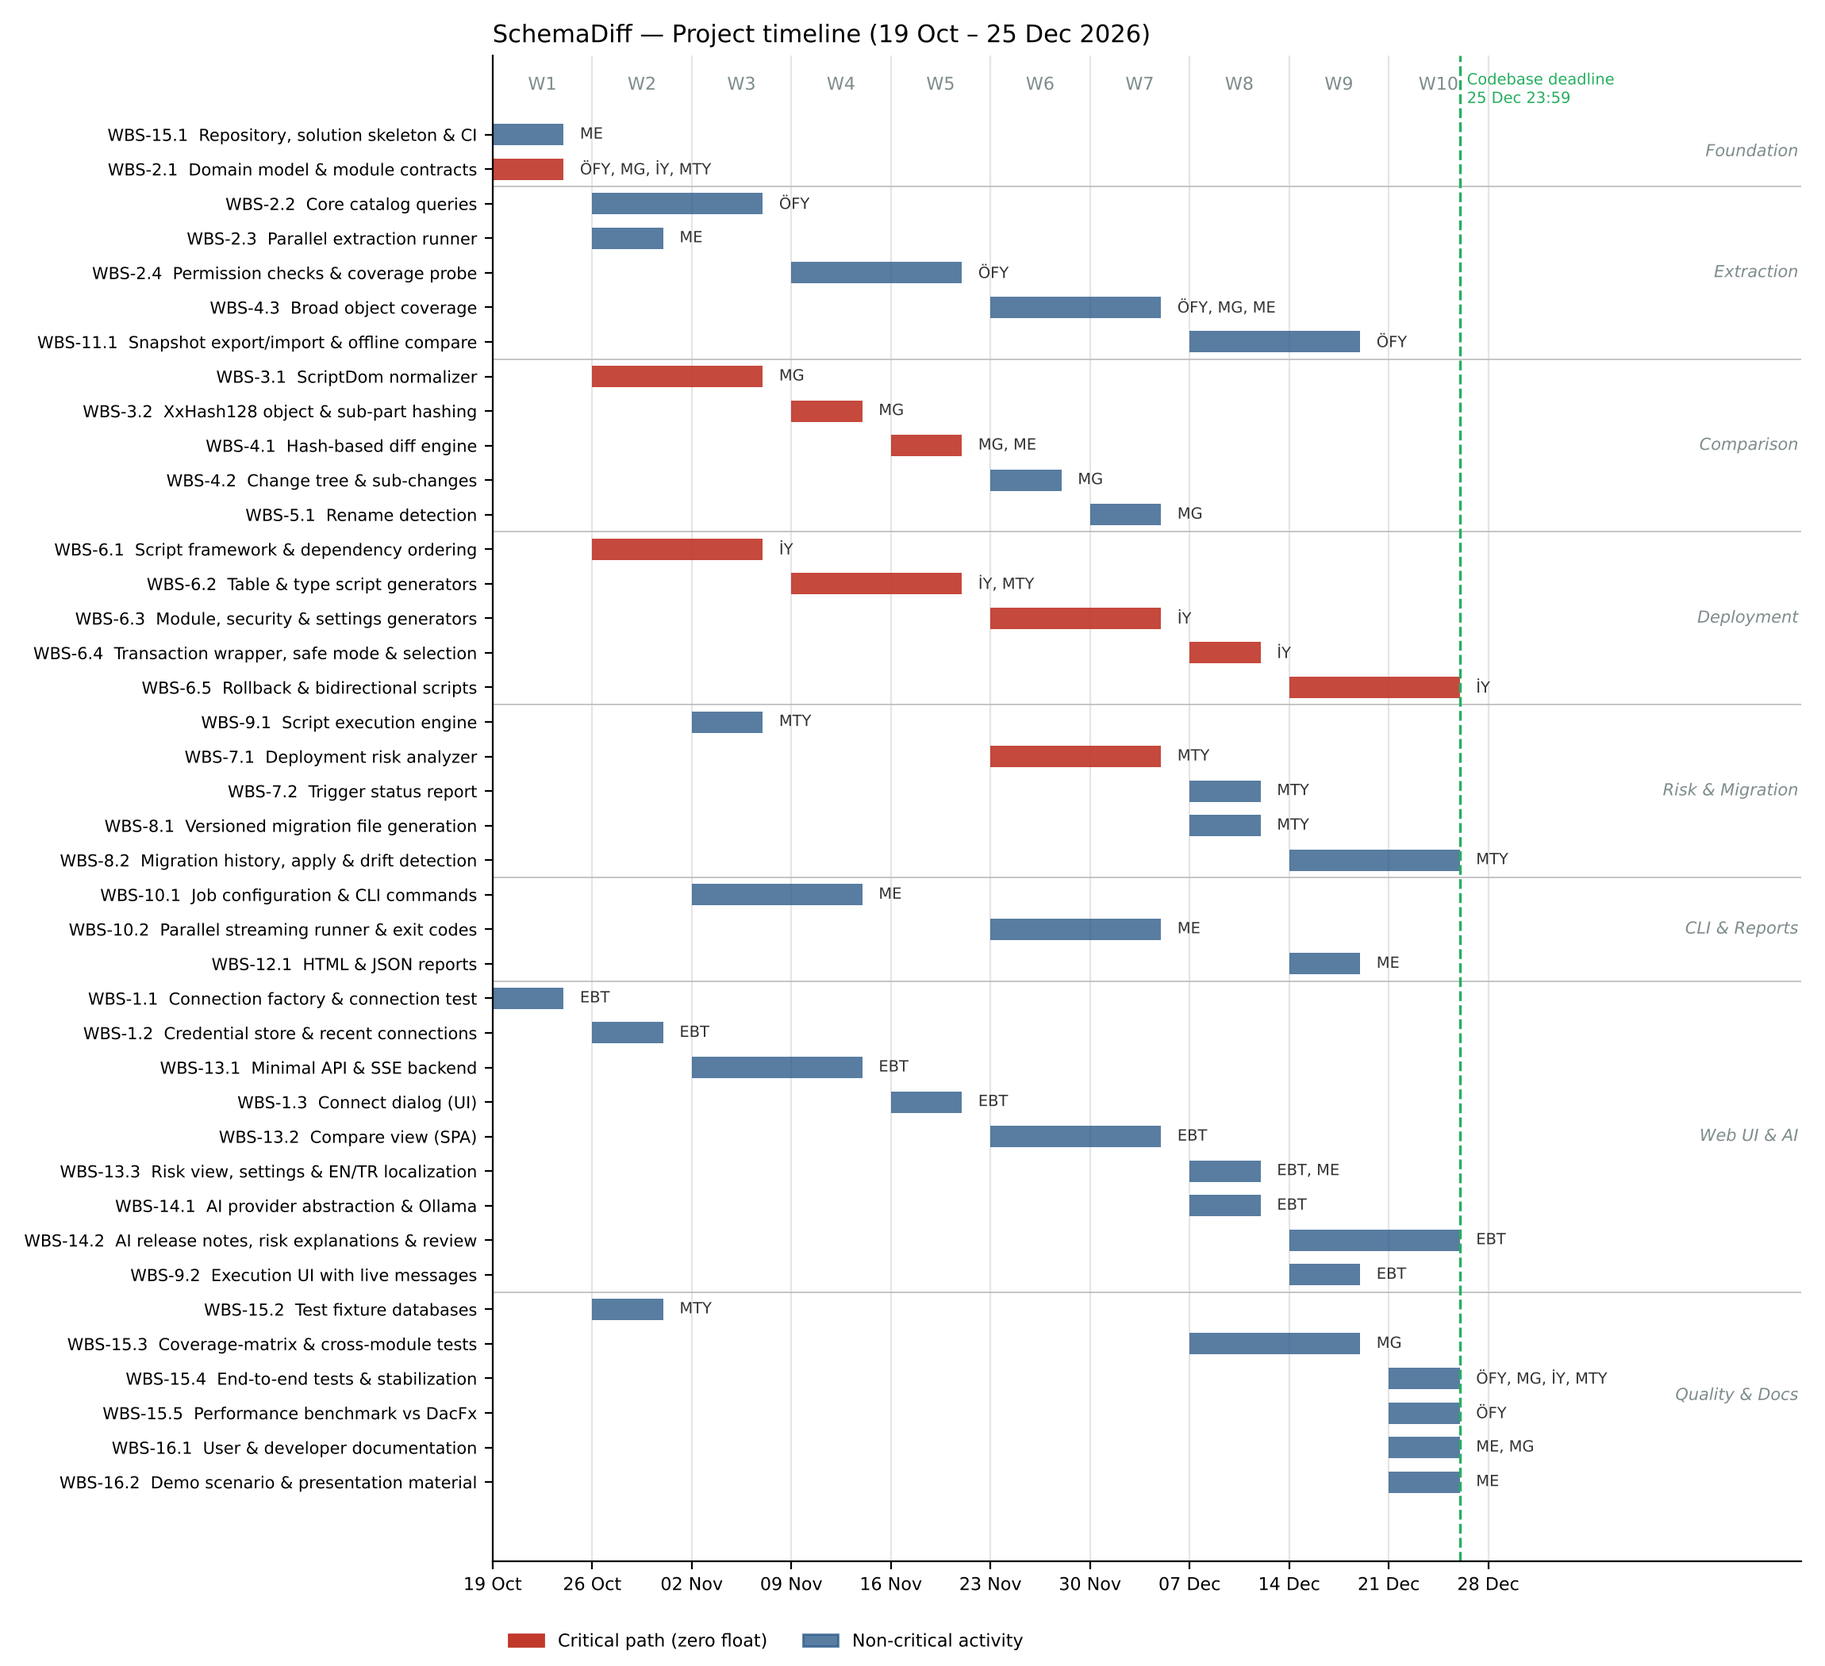
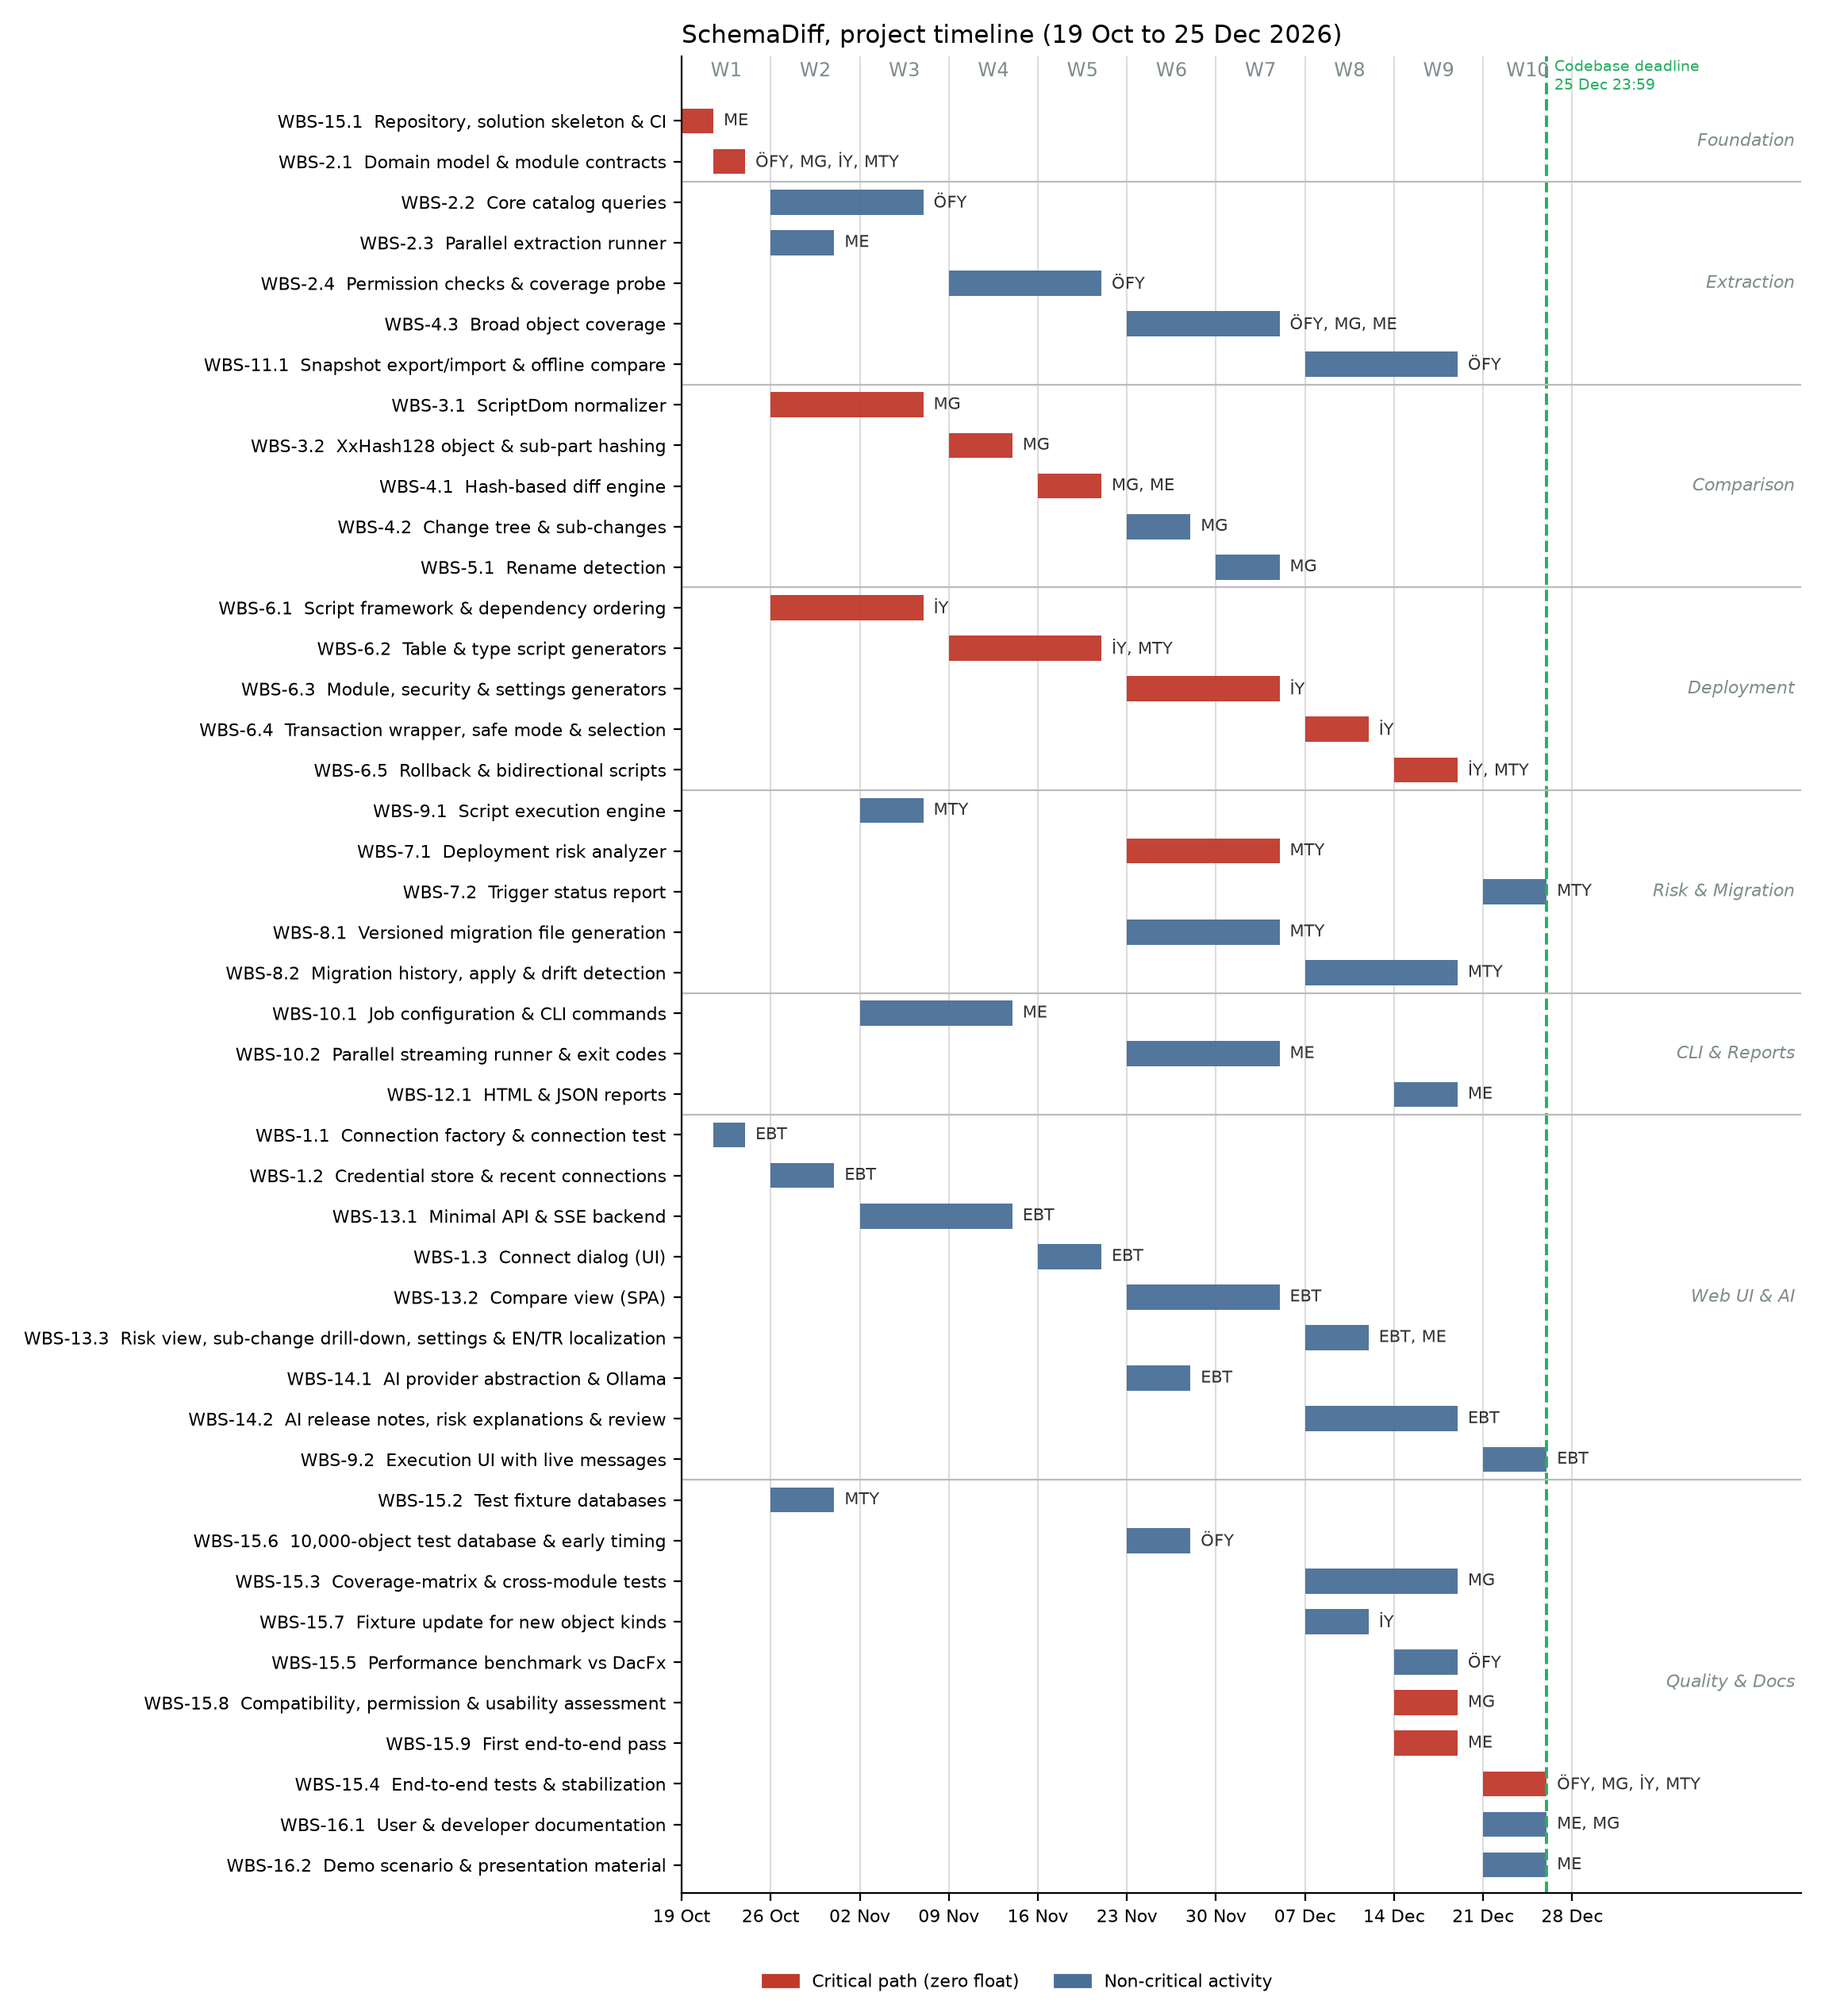
docs(plan): redraw PERT and Gantt charts from a checked model
charts.py holds the activities, runs the forward and backward pass, checks the weekly limits and draws both figures.

diff --git a/docs/diagrams/project-plan/charts.py b/docs/diagrams/project-plan/charts.py
@@ -1,0 +1,263 @@
+#!/usr/bin/env python3
+"""Project Plan schedule model: checks the plan and draws the PERT and Gantt charts.
+
+Run from the repository root:  python3 docs/diagrams/project-plan/charts.py
+Times are in weeks from Monday 19 Oct 2026, so W1 is the range 0 to 1.
+"""
+import os
+import subprocess
+import sys
+from datetime import date, timedelta
+
+import matplotlib
+matplotlib.use("Agg")
+import matplotlib.pyplot as plt
+
+NAMES = {"ME": "Mehmet Elhan", "ÖFY": "Ömer Faruk Yılmaz", "MG": "Mücahit Günay",
+         "İY": "İsmail Yeşilyurt", "MTY": "Mustafa Talha Yıldırım", "EBT": "Enes Birol Tatlı"}
+PROJECT_END = 10
+
+# id: (name, group, [(member, fte, start, duration), ...], predecessors)
+A = {
+ "15.1": ("Repository, solution skeleton & CI", "Foundation", [("ME", 1, 0, .5)], []),
+ "2.1": ("Domain model & module contracts", "Foundation",
+         [("ÖFY", .5, .5, .5), ("MG", .5, .5, .5), ("İY", .5, .5, .5), ("MTY", .5, .5, .5)], ["15.1"]),
+ "2.2": ("Core catalog queries", "Extraction", [("ÖFY", .5, 1, 2)], ["2.1", "1.1"]),
+ "2.3": ("Parallel extraction runner", "Extraction", [("ME", .5, 1, 1)], ["2.1", "1.1"]),
+ "2.4": ("Permission checks & coverage probe", "Extraction", [("ÖFY", .5, 3, 2)], ["2.2"]),
+ "4.3": ("Broad object coverage", "Extraction",
+         [("ÖFY", .5, 5, 2), ("MG", .25, 5, 2), ("ME", .25, 5, 2)], ["2.4", "4.1"]),
+ "11.1": ("Snapshot export/import & offline compare", "Extraction", [("ÖFY", .5, 7, 2)], ["10.1", "4.3"]),
+ "3.1": ("ScriptDom normalizer", "Comparison", [("MG", .5, 1, 2)], ["2.1"]),
+ "3.2": ("XxHash128 object & sub-part hashing", "Comparison", [("MG", .5, 3, 1)], ["3.1"]),
+ "4.1": ("Hash-based diff engine", "Comparison", [("MG", .5, 4, 1), ("ME", .5, 4, 1)], ["3.2", "2.2"]),
+ "4.2": ("Change tree & sub-changes", "Comparison", [("MG", .5, 5, 1)], ["4.1"]),
+ "5.1": ("Rename detection", "Comparison", [("MG", .5, 6, 1)], ["4.2"]),
+ "6.1": ("Script framework & dependency ordering", "Deployment", [("İY", .5, 1, 2)], ["2.1"]),
+ "6.2": ("Table & type script generators", "Deployment", [("İY", .5, 3, 2), ("MTY", .5, 3, 2)], ["6.1"]),
+ "6.3": ("Module, security & settings generators", "Deployment", [("İY", .5, 5, 2)], ["6.2"]),
+ "6.4": ("Transaction wrapper, safe mode & selection", "Deployment", [("İY", .5, 7, 1)], ["6.3", "7.1"]),
+ "6.5": ("Rollback & bidirectional scripts", "Deployment", [("İY", .75, 8, 1), ("MTY", .25, 8, 1)], ["6.4"]),
+ "9.1": ("Script execution engine", "Risk & Migration", [("MTY", .5, 2, 1)], ["1.1"]),
+ "7.1": ("Deployment risk analyzer", "Risk & Migration", [("MTY", .5, 5, 2)], ["4.1"]),
+ "7.2": ("Trigger status report", "Risk & Migration", [("MTY", .25, 9, 1)], ["2.2"]),
+ "8.1": ("Versioned migration file generation", "Risk & Migration", [("MTY", .25, 5, 2)], ["6.1"]),
+ "8.2": ("Migration history, apply & drift detection", "Risk & Migration", [("MTY", .5, 7, 2)], ["8.1", "9.1"]),
+ "10.1": ("Job configuration & CLI commands", "CLI & Reports", [("ME", .5, 2, 2)], ["2.1"]),
+ "10.2": ("Parallel streaming runner & exit codes", "CLI & Reports", [("ME", .25, 5, 2)], ["10.1", "4.1"]),
+ "12.1": ("HTML & JSON reports", "CLI & Reports", [("ME", .5, 8, 1)], ["10.2", "7.1", "4.2"]),
+ "1.1": ("Connection factory & connection test", "Web UI & AI", [("EBT", 1, .5, .5)], ["15.1"]),
+ "1.2": ("Credential store & recent connections", "Web UI & AI", [("EBT", .5, 1, 1)], ["1.1"]),
+ "13.1": ("Minimal API & SSE backend", "Web UI & AI", [("EBT", .5, 2, 2)], ["1.2"]),
+ "1.3": ("Connect dialog (UI)", "Web UI & AI", [("EBT", .5, 4, 1)], ["1.2", "13.1"]),
+ "13.2": ("Compare view (SPA)", "Web UI & AI", [("EBT", .5, 5, 2)], ["13.1", "4.1"]),
+ "13.3": ("Risk view, sub-change drill-down, settings & EN/TR localization", "Web UI & AI",
+          [("EBT", .5, 7, 1), ("ME", .5, 7, 1)], ["13.2", "7.1", "4.2"]),
+ "14.1": ("AI provider abstraction & Ollama", "Web UI & AI", [("EBT", .25, 5, 1)], ["13.1"]),
+ "14.2": ("AI release notes, risk explanations & review", "Web UI & AI",
+          [("EBT", .25, 7, 1), ("EBT", .75, 8, 1)], ["14.1", "7.1"]),
+ "9.2": ("Execution UI with live messages", "Web UI & AI", [("EBT", .25, 9, 1)], ["13.2", "9.1"]),
+ "15.2": ("Test fixture databases", "Quality & Docs", [("MTY", .5, 1, 1)], ["2.1"]),
+ "15.6": ("10,000-object test database & early timing", "Quality & Docs", [("ÖFY", .25, 5, 1)], ["4.1", "2.3"]),
+ "15.3": ("Coverage-matrix & cross-module tests", "Quality & Docs", [("MG", .5, 7, 2)], ["4.3", "5.1"]),
+ "15.7": ("Fixture update for new object kinds", "Quality & Docs", [("İY", .25, 7, 1)], ["4.3", "15.2"]),
+ "15.5": ("Performance benchmark vs DacFx", "Quality & Docs", [("ÖFY", .25, 8, 1)], ["4.3", "15.6"]),
+ "15.8": ("Compatibility, permission & usability assessment", "Quality & Docs",
+          [("MG", .25, 8, 1)], ["6.4", "13.2", "15.2"]),
+ "15.9": ("First end-to-end pass", "Quality & Docs", [("ME", .25, 8, 1)], ["6.4", "10.2", "15.2", "9.1"]),
+ "15.4": ("End-to-end tests & stabilization", "Quality & Docs",
+         [("ÖFY", .25, 9, 1), ("MG", .25, 9, 1), ("İY", .25, 9, 1), ("MTY", .25, 9, 1)],
+         ["6.5", "12.1", "13.3", "15.7", "15.8", "15.9"]),
+ "16.1": ("User & developer documentation", "Quality & Docs",
+          [("ME", .25, 9, 1), ("MG", .25, 9, 1)], ["12.1", "13.3"]),
+ "16.2": ("Demo scenario & presentation material", "Quality & Docs", [("ME", .25, 9, 1)], ["12.1", "15.2"]),
+}
+
+
+def span(a):
+    rows = A[a][2]
+    start = min(r[2] for r in rows)
+    return start, max(r[2] + r[3] for r in rows) - start
+
+
+def effort(a):
+    return sum(r[1] * r[3] for r in A[a][2])
+
+
+def cpm():
+    es, ef = {}, {}
+    def forward(a):
+        if a not in es:
+            es[a] = max((forward(p) for p in A[a][3]), default=0)
+            ef[a] = es[a] + span(a)[1]
+        return ef[a]
+    for a in A:
+        forward(a)
+    succ = {a: [b for b in A if a in A[b][3]] for a in A}
+    ls, lf = {}, {}
+    def backward(a):
+        if a not in ls:
+            lf[a] = min((backward(s) for s in succ[a]), default=PROJECT_END)
+            ls[a] = lf[a] - span(a)[1]
+        return ls[a]
+    for a in A:
+        backward(a)
+    return es, ef, ls, lf
+
+
+def allocation():
+    table = {m: [0.0] * 10 for m in NAMES}
+    for a in A:
+        for m, fte, s, d in A[a][2]:
+            for w in range(10):
+                table[m][w] += fte * max(0, min(s + d, w + 1) - max(s, w))
+    return table
+
+
+def check():
+    es, ef, ls, lf = cpm()
+    errors = []
+    if max(ef.values()) != PROJECT_END:
+        errors.append(f"project length is {max(ef.values())}")
+    for a in A:
+        start, dur = span(a)
+        if not es[a] <= start <= ls[a]:
+            errors.append(f"{a}: start {start} outside ES {es[a]} to LS {ls[a]}")
+        for p in A[a][3]:
+            if sum(span(p)) > start:
+                errors.append(f"{a}: starts at {start} before {p} finishes at {sum(span(p))}")
+    table = allocation()
+    for m, weeks in table.items():
+        run = 0
+        for w, v in enumerate(weeks, 1):
+            if v > .75:
+                errors.append(f"{m} W{w} is at {v}")
+            if v > .5 and w < 6:
+                errors.append(f"{m} W{w} has a peak before the midterm")
+            run = run + 1 if v > .5 else 0
+            if run > 2 and w < 10:
+                errors.append(f"{m} has more than two peak weeks up to W{w}")
+    return errors
+
+
+def fmt(x):
+    return f"{x:g}"
+
+
+def monday(week):
+    return date(2026, 10, 19) + timedelta(days=7 * week)
+
+
+def weeks_label(rowstart, dur):
+    if dur == .5:
+        return "W1 (first half)" if rowstart == 0 else "W1 (second half)"
+    first, last = int(rowstart) + 1, int(rowstart + dur)
+    return f"W{first}" if first == last else f"W{first}–W{last}"
+
+
+def pert(path_dot, path_png):
+    es, ef, ls, lf = cpm()
+    crit = {a for a in A if ls[a] == es[a]}
+    out = ['digraph pert {', ' rankdir=LR nodesep=0.12 ranksep=0.45 bgcolor=white',
+           ' node [shape=plain fontname="DejaVu Sans"] edge [color="#858585" arrowsize=0.7]',
+           ' Start [shape=circle label="Start" width=0.8 fixedsize=true fontsize=12]',
+           ' Finish [shape=doublecircle label="Finish" width=0.8 fixedsize=true fontsize=12]']
+    for a in A:
+        red = a in crit
+        fill, line, title, w = ("#FDECEA", "#C0392B", "#C0392B", 3) if red else ("#F4F6F8", "#2C3E50", "#2C3E50", 1)
+        name = A[a][0].replace("&", "&amp;")
+        out.append(
+            f' "{a}" [label=<<TABLE BORDER="{w}" COLOR="{line}" BGCOLOR="{fill}" CELLBORDER="0" CELLSPACING="0" CELLPADDING="2">'
+            f'<TR><TD COLSPAN="3"><FONT POINT-SIZE="12" COLOR="{title}"><B>WBS-{a}</B></FONT></TD></TR>'
+            f'<TR><TD COLSPAN="3"><FONT POINT-SIZE="10">{name}</FONT></TD></TR>'
+            f'<TR><TD><FONT POINT-SIZE="8">ES {fmt(es[a])}</FONT></TD><TD><FONT POINT-SIZE="8">D {fmt(span(a)[1])}w</FONT></TD><TD><FONT POINT-SIZE="8">EF {fmt(ef[a])}</FONT></TD></TR>'
+            f'<TR><TD><FONT POINT-SIZE="8">LS {fmt(ls[a])}</FONT></TD><TD><FONT POINT-SIZE="8">TF {fmt(ls[a]-es[a])}</FONT></TD><TD><FONT POINT-SIZE="8">LF {fmt(lf[a])}</FONT></TD></TR>'
+            '</TABLE>>]')
+    hot = ' [color="#C0392B" penwidth=2.6]'
+    has_succ = set()
+    for b in A:
+        for p in A[b][3]:
+            has_succ.add(p)
+            critical = p in crit and b in crit and ef[p] == es[b]
+            out.append(f' "{p}" -> "{b}"{hot if critical else ""}')
+        if not A[b][3]:
+            out.append(f' Start -> "{b}"{hot if b in crit else ""}')
+    for a in A:
+        if a not in has_succ:
+            out.append(f' "{a}" -> Finish{hot if a in crit else ""}')
+    out.append('}')
+    with open(path_dot, "w", encoding="utf-8") as f:
+        f.write("\n".join(out) + "\n")
+    subprocess.run(["dot", "-Tpng", "-Gdpi=170", path_dot, "-o", path_png], check=True)
+
+
+def gantt(path):
+    es, ef, ls, lf = cpm()
+    plt.rcParams["font.family"] = "DejaVu Sans"
+    groups = []
+    for a in A:
+        if A[a][1] not in groups:
+            groups.append(A[a][1])
+    order = [a for g in groups for a in A if A[a][1] == g]
+    fig, ax = plt.subplots(figsize=(11.5, 0.245 * len(order) + 1.9), dpi=200)
+    def x(week):  # bars run Monday to Friday, weekends stay empty
+        whole = int(week)
+        return whole * 7 + (week - whole) * 5
+    for i, a in enumerate(order):
+        start, dur = span(a)
+        critical = ls[a] == es[a]
+        left, right = x(start), x(start + dur) if (start + dur) % 1 else x(start + dur) - 2
+        ax.barh(i, right - left, left=left, height=.62, color="#C0392B" if critical else "#4A6F97", alpha=.95)
+        members = list(dict.fromkeys(r[0] for r in A[a][2]))
+        ax.text(right + .8, i, ", ".join(members), va="center", fontsize=7.5, color="#333333")
+    ticks = list(range(0, 71, 7))
+    ax.set_xticks(ticks)
+    ax.set_xticklabels([monday(t // 7).strftime("%d %b") for t in ticks], fontsize=8)
+    ax.set_yticks(range(len(order)))
+    ax.set_yticklabels([f"WBS-{a}  {A[a][0]}" for a in order], fontsize=7.8)
+    ax.set_ylim(len(order) - .3, -1.6)
+    ax.set_xlim(0, 88)
+    for t in ticks:
+        ax.axvline(t, color="#DDDDDD", lw=.8, zorder=0)
+    for w in range(10):
+        ax.text(w * 7 + 3.5, -1.1, f"W{w+1}", ha="center", fontsize=8.5, color="#7F8C8D")
+    ax.axvline(68, color="#27AE60", ls="--", lw=1.4)
+    ax.text(68.6, -1.1, "Codebase deadline\n25 Dec 23:59", fontsize=7, color="#27AE60", va="center")
+    pos = 0
+    for g in groups:
+        n = sum(1 for a in order if A[a][1] == g)
+        ax.text(87.5, pos + (n - 1) / 2, g, ha="right", va="center", style="italic", fontsize=8, color="#7F8C8D")
+        pos += n
+        if pos < len(order):
+            ax.axhline(pos - .5, color="#BBBBBB", lw=.8)
+    for s in ("top", "right"):
+        ax.spines[s].set_visible(False)
+    ax.set_title("SchemaDiff, project timeline (19 Oct to 25 Dec 2026)", loc="left", fontsize=11)
+    handles = [plt.Rectangle((0, 0), 1, 1, color="#C0392B"), plt.Rectangle((0, 0), 1, 1, color="#4A6F97")]
+    ax.legend(handles, ["Critical path (zero float)", "Non-critical activity"], loc="upper center",
+              bbox_to_anchor=(.3, -.035), ncol=2, frameon=False, fontsize=8)
+    fig.tight_layout()
+    fig.savefig(path)
+
+
+def report():
+    es, ef, ls, lf = cpm()
+    print("total effort", sum(effort(a) for a in A), "activities", len(A))
+    print("critical", [a for a in A if ls[a] == es[a]])
+    print("float", {a: fmt(ls[a] - es[a]) for a in A if ls[a] != es[a]})
+    table = allocation()
+    for m, weeks in table.items():
+        print(m, [fmt(v) for v in weeks], fmt(sum(weeks)))
+    print("week totals", [fmt(sum(table[m][w] for m in NAMES)) for w in range(10)])
+
+
+if __name__ == "__main__":
+    problems = check()
+    report()
+    if problems:
+        print("\n".join(problems))
+        sys.exit(1)
+    here = os.path.dirname(os.path.abspath(__file__))
+    images = os.path.join(here, "..", "..", "images")
+    pert(os.path.join(here, "pert.dot"), os.path.join(images, "pert-chart.png"))
+    gantt(os.path.join(images, "gantt-chart.png"))
